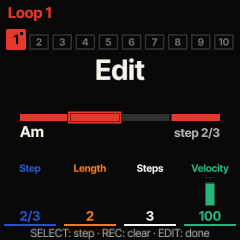
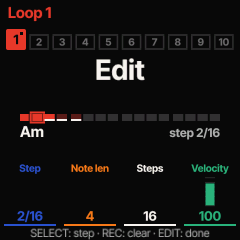
Looper step sequencer: the docs (MANUAL 10 and its editor picture, LOOPER, LOOPER-MODES, INTEGRATION's two lines, the 0.18 notes)

diff --git a/docs/LOOPER.md b/docs/LOOPER.md
@@ -127,16 +127,42 @@ REC while armed or counting in cancels.
 | **Replace** | a fresh take | arms as Overdub (`crl.rep`); while a gesture of the layer is held the older layers' events whose on-time is reached are hidden instead of played (`crl_fire`), and an older event sounding when a gesture starts is cut there (`crl_cut`: it is hidden and a copy ending there goes into the new layer; its voice ends). Hidden events keep their place (`layer` = `CRL_HID` \| the hiding layer) inside the 512-event cap; undo of that layer (`crl_restore`, by `crl.lev0`, each layer's first event) brings them back whole; the flash record stores only live events |
 | **Step** | step entry (`CRL_CAP_STEP`) | the same (the loop stops first) |
 
-**Step entry**: a step is the Quantize value (none: a quarter note, `CRL_STEP_NONE`; 1/16 until 0.17; `crl.step_g`
-ticks a step); a cursor on step 1. A chord gesture's end
-writes its chord at the cursor, one step long (several gestures before every key is up: all at the cursor); when every
-key is up and nothing is latched (`cu.kheld`, `cu.mlatch`; LOCK keeps the chord block latched) the UI posts
-`LP_STEP KEYSUP` and the cursor advances if a chord was written there; OCT+ = a rest (the cursor advances), OCT- = back
-one step (nothing erased), in or out of the menu. Synced lengths wrap the cursor at the length; Free grows. The steps
-are kept after the loop's events until the commit: REC = they become the loop (the loop there before goes; **Free: the
-length is the steps used, exactly**: "3 chords, the loop should just be 3 steps long", the owner 2026-10-11; until
-then it rounded up to the bar; a set Length: that length, as before), stopped; LOOP = the same and it plays; nothing entered = the loop
-as it was. The chords sound as they are entered (the chord engine plays the keys as always).
+**Step entry** (a step sequencer since 2026-10-12; the owner: "I would expect this system to work more like an
+Elektron sequencer in which you can record up to 64 steps. So at 1x, 16 steps is a bar").
+
+- **The grid.** A step is a **sixteenth note** of the loop's own time (`CRL_STEP`, 24 ticks; `crl.step_g`): 16 steps a
+  bar of 4/4 at Rate x1 (12 in 3/4 and 6/8). The **Rate** scales the pattern with the loop, as it does any loop: x2
+  makes the steps thirty-seconds of the tempo, x1/2 eighths. **Quantize does not set the step**: it is the grid a take
+  played by hand is pulled to. While the record mode is Step its cell reads `1/16`, dim, and KNOB 3 says `Step: always
+  1/16` and leaves the takes' Quantize as it is.
+- **Length.** A pattern has 1 .. 64 steps (`CRL_STEPS`). **Length Free: the loop is the steps entered, exactly** ("3
+  chords, the loop should just be 3 steps long", the owner 2026-10-11), growing to 64; a chord after the 64th is refused
+  (`64 steps: full`; `crl.step_no`), and so is a rest there. **A set Length**: N bars are N x 16 steps and the cursor
+  wraps at the end; a Length longer than a pattern can be gives its first whole bars within 64 steps (8 and 16 bars: 4
+  bars; 3/4 and 6/8: 5 bars, 60 steps) and says so when step entry begins (`Step: 4 bars (64 steps)`;
+  `cr_loop_step_len`). Takes played by hand keep their 8 and 16 bars.
+- **Entering.** The cursor starts on step 1. A chord gesture's end writes its chord, one step long, on **the step the
+  gesture was pressed on**. The cursor moves on a step
+  - when every key is up and nothing is latched, if a chord was written there (`cu.kheld`, `cu.mlatch`: the UI posts
+    `LP_STEP KEYSUP`), and
+  - **when a root is pressed after one was written there and let go**, whatever is still held or latched
+    (`cr_loop_gesture`): the chord key kept down while the roots are tapped under it, or a chord latched by LOCK, gives a
+    step a root. Roots held **together** share the step (a chord over a Split Bass bass note; a second root pressed
+    before the first is let go).
+  OCT+ = a rest (the cursor moves on), OCT- = back one step (nothing erased), in or out of the menu.
+- The steps are kept after the loop's events until the commit: REC = they become the loop (the loop there before
+  goes), stopped; LOOP = the same and it plays; nothing entered = the loop as it was. The chords sound as they are
+  entered (the chord engine plays the keys as always).
+
+**The two faults of the first build (0.18 dev of 2026-10-11), as the owner met them.** (1) "With quantize off it is
+capped to 4 total steps": the step was the Quantize value, and with Quantize none a **quarter note**, so a bar was
+four steps: a 1-bar Length wrapped on the fifth chord, an empty slot opened in the editor had four steps, and the grid
+drew four cells a row. (With Length really on Free the engine did go on: six chords made six quarter-note steps.) (2)
+"With quantize 16 it shows 16 steps but only records to the first step": the cursor moved on **only when every key was
+up**; with the chord key held down between the roots, or a chord latched by LOCK, every chord was written on the same
+step (six events on step 1, a loop one step long); in the editor the cursor does not move by itself at all. Neither
+depended on Quantize beyond the step's size. `tools/emu/scripts/cr_loop_stepfaults.txt` plays both; its checks fail on
+6619937.
 
 ## The PLAY menu (`cr_ui.c cu_loopmenu`, `CR_K_LOOPMENU`)
 
@@ -162,9 +188,10 @@ The middle: **idle / armed** the length big ("4 bars", "Free"; armed Free: "the 
 Advance its message); **recording or playing** the timeline (`lm_*`: the bars with their beat ticks, more than 8: the
 half the playhead is in; recording Free the bars as they pass, the current one at the right, at most 4, the elapsed
 time under it; a lane of marks per layer, at most 4 (older layers fold into lane 0), the take's lane bright, marks of
-the gestures still held where they began; Replace: the held span); **step entry** the step grid (16 a bar at 1/16, at
-most 4 bars a page, 64 steps; the filled steps, the cursor blinking with the REC LED's phase, the cursor step's chord
-under it, "step 7 · bar 1", the foot "OCT-: back · OCT+: rest · REC: done"). The marks are read from the ISR's loop
+the gestures still held where they began; Replace: the held span); **step entry** the step grid (sixteenths, a bar a
+row, four rows: the whole pattern of 64 steps on one screen; a set Length: all its steps, Free: the bars reached so
+far; the filled steps, the cursor blinking with the REC LED's phase, the cursor step's chord under it, "step 7" (Free),
+"step 7/32" (a set Length) or "64 steps · full", the foot "OCT-: back · OCT+: rest · REC: done"). The marks are read from the ISR's loop
 with the IRQ off only when its events (`crl.gen`) or the window change (`cu_lm_marks`). The top line: "Loop 3" and at
 the right "Rec · Overwrite" (armed: the mode; also outside the menu), "Rec 2.4", "Dub 3.2", "Rep 3.2", "Rec · Step",
 "3.2" playing, "empty" for an empty slot.
@@ -222,33 +249,49 @@ ignores them, and nothing is sent out.
 "In the play menu, lets make it so you can press Edit and edit the loop; once in the loop edit mode, you select a
 step and can change: notes by playing new notes which overwrites the notes, step length (default 1, but you can make
 it longer or shorter), loop length in number of steps, and we also need a way to clear a step of notes which could
-be done by pressing REC (which when in the loop editor doesn't do the normal record)."
+be done by pressing REC (which when in the loop editor doesn't do the normal record)." And on the first build
+(2026-10-12): "adjusting a step's length is changing the steps after it, which is weird. I would expect this system to
+work more like an Elektron sequencer".
 
-**The loop as steps, with nothing stored for it.** The grid is cells of the Quantize value (`crl.ed_g` ticks; an
-empty loop with Quantize none: a quarter note). A **step** is a cell, or a run of cells: a cell in which an event
-starts, and the cells after it in which nothing starts and which one of its events covers to their end (16 at most).
-An event belongs to the step it starts in. So a step-entered loop is its steps exactly (each chord a cell long, a rest
-an empty cell), and a loop recorded by playing reads as steps on the grid without one event being moved: its
-offsets inside the cells are kept, **nothing is requantised**. The steps are read from the events each time
-(`cr_loop_ed_map`: two passes over the events, two bitmaps of 2048 cells: 520 bytes in the POOL, the editor's only
-buffer), and **the record's format is unchanged**: a step's length is in `t` and `dur`, which the record always had;
-no new field, no flag, version 1, and 0.14 .. 0.17 read an edited loop's record as any other (`tests/cr_loop_test.c
-s_edit`: pack / unpack give the same map; `old_unpack_ok`).
+**A step sequencer's view of any loop, with nothing stored for it.** The grid is the sixteenth note of Step entry
+(`CRL_STEP`, 24 ticks, whatever Quantize says), for a pattern entered by steps, a take played by hand, or a step loop
+of the first build (whose steps were the Quantize value: quarter-note steps show as a chord every fourth step, four
+steps long). **An event belongs to the step it starts in.** Nothing is moved when the editor opens: an event that
+starts off the grid keeps its exact time until that step's notes are replaced; opened, looked at and closed, the loop
+is byte for byte what it was. **A step's length is its NOTES' length** (`crl_ev_t.dur`), never its place in time:
+changing it moves no other step and does not change the loop's length. A long note sounds on over the steps after it,
+and those steps still play: the voices are the looper's eight (`CR_MAX_LOOPV`; when all are busy the one that would
+end first is taken), each chord its own voice, so a held chord and the next step's chord sound together as two chords
+played on the keys would. The steps are read from the events each time (`cr_loop_ed_map`: one pass, a page of 64
+steps as two 64-bit maps: 24 bytes in the POOL, the editor's only buffer; 520 bytes before), and **the record's format
+is unchanged**: `t` and `dur` are what the record always had; no new field, no flag, version 1, and 0.14 .. 0.17 read
+an edited loop's record as any other (`tests/cr_loop_test.c s_edit`; `old_unpack_ok`).
 
 | gesture | does |
 | --- | --- |
-| EDIT tap in the PLAY menu | opens it (`cr_loop_ed_open`). Refused: a slot switch on its way (`a slot is on its way`); a capture open (`end the take first`); **Quantize none on a loop with events** (`set Quantize to edit`: a free-timed loop has no grid); more than 2048 cells (`too long: coarser grid`). An empty slot: an empty loop of the set Length (Free: a bar), which is the slot empty again if nothing is entered |
-| SELECT, KNOB 1 | the step cursor, wrapping (`cu_ledit_move`); the grid shows the cells (a bar a row; filled: an event starts there), the cursor on the step's first cell, its chord (the step cursor's name of Step entry: the last event written there) and `step 2/3` under it; the cells Step / Length / Steps / Velocity |
-| the keys | they play, as on the view (auditioned by the chord engine). A gesture's end writes its chord INTO the selected step, replacing its notes: the first key of a new push (no gesture open) clears, the keys of one push add up (`crl_ed_write`, `ed_w`). **By side** (3y9's rule): a bass-side note (Split Bass) replaces the step's bass-side notes, anything else the chord side. The new event starts at the step's first tick and is the step long |
-| | **The cursor stays on the step** (it does not advance as Step entry does): with LOCK on a chord key stays latched, so "every key up" never comes and the cursor would move for some players and not for others; and an editor's step is tried, heard and tried again. SELECT moves on |
-| REC tap | clears the selected step (`cr_loop_ed_clear`): no recording in the editor. A cleared step several cells long becomes that many empty steps |
-| KNOB 2 | the step's length, 1 .. 16 cells (`cr_loop_ed_steplen`): every later event moves by the difference, the step's own events are made to sound to its end. **Length Free: the loop's length changes with it. A set Length (1 .. 16 bars): the loop keeps its length: a shorter step pulls the rest in and leaves empty cells at the end; a longer one is REFUSED (`no room in the loop`) if it would push an event past the end** (nothing is clipped). An empty step is one cell (its cell shows `-`). Shorter than a cell: a finer Quantize first |
-| KNOB 3 | the loop's length in steps (`cr_loop_ed_len`): shorter hides the last step (its events stay in RAM beyond the end, unheard), longer brings it back, and past what there was adds an empty cell. **The hidden steps are deleted when the editor closes**; a save while it is open writes what sounds (`cr_loop_pack` skips events beyond the end). A loop played to a length off the grid: the first step up makes its last cell whole |
+| EDIT tap in the PLAY menu | opens it (`cr_loop_ed_open`), **at any Quantize setting** (the first build refused a loop with Quantize none: `set Quantize to edit`). Refused: a slot switch on its way (`a slot is on its way`); a capture open (`end the take first`). An empty slot: an empty pattern of the set Length (Free: a bar, 16 steps; more than 64 steps: its first whole bars within 64), which is the slot empty again if nothing is entered |
+| SELECT, KNOB 1 | the step cursor, wrapping at the loop's end (`cu_ledit_move`) |
+| the keys | they play, as on the view (auditioned by the chord engine). A gesture's end writes its chord INTO the selected step, replacing its notes: the first key of a new push (no gesture open) clears, the keys of one push add up (`crl_ed_write`, `ed_w`). **By side** (3y9's rule): a bass-side note (Split Bass) replaces the step's bass-side notes, anything else the chord side. The new notes start on the step's tick and are **as long as the step's notes were** (one step on an empty step) |
+| | **The cursor stays on the step** (it does not advance as Step entry does; an Elektron's grid recording stays on the selected trig too): an editor's step is tried, heard and tried again. SELECT moves on |
+| REC tap | clears the selected step (`cr_loop_ed_clear`): no recording in the editor |
+| KNOB 2 | **Note len**: how long the selected step's notes sound, 1 .. 64 steps (`cr_loop_ed_setnlen`; shown: the longest of them, a part of a step counted whole, `cr_loop_ed_nlen`). Whole steps only: the event format could carry a shorter gate, but no control was asked for one. A note played off the grid keeps its start and ends on the grid. Nothing else moves. An empty step has none (`-`). Longer than the loop: it sounds across the loop's start |
+| KNOB 3 | **Steps**: the loop's length, 1 .. 64 steps, a step a detent (`cr_loop_ed_len`): shorter hides the last step (its events stay in RAM beyond the end, unheard), longer brings it back, and past what there was adds an empty step; `64 steps at most`. **The hidden steps are deleted when the editor closes**; a save while it is open writes what sounds (`cr_loop_pack` skips events beyond the end). A loop played to a length off the grid: the first detent up makes its last step whole. A take longer than 64 steps can be made shorter, not longer |
 | KNOB 4 | the step's velocity (the event format's `vel`; the highest of its events shown) |
-| LOOP tap | play / stop from the loop's start, as ever; the cursor does not follow the playback. A length changed under the playhead: the playhead where it is in the new cycle (`crl_ed_renorm`) |
+| LOOP tap | play / stop from the loop's start, as ever; the cursor does not follow the playback, the playhead shows it. A length changed under the playhead: the playhead where it is in the new cycle (`crl_ed_renorm`) |
 | REC held | the looper's undo, as outside (below) |
 | PRESETS, ALGORITHM, GLO | nothing |
 | OCT- / OCT+ / HOME / EDIT tapped / EDIT held again | close it, back to the PLAY menu (`cr_loop_ed_close`): nothing to confirm, an edit is applied when it is made. LOOP held again, another layer, a revert: the menu and the editor close |
+
+**The screen** (`CR_K_LOOPMENU` with `lm_mid = CR_LM_STEPS`, the step grid of Step entry: `cr_draw.c cr_lm_steps`): a
+bar a row, **four rows of 16: all 64 steps at a glance** (3/4 and 6/8: four rows of 12). A step with a note starting
+in it is red; a step a longer note still sounds in (half of it or more) is dark red (`lm_lane[1]`); an empty one grey;
+the grid ends where the loop ends (`lm_steps`). The cursor is the red outline. The steps the **selected** step's note
+sounds on into carry a white line along their bottom (`lm_lane[2]`), so turning KNOB 2 is seen to stretch the note
+over the following steps and to move nothing. While the loop plays, the step being played is white (grey when empty:
+`CR_LM_PLAY` in `lm_pos`; only its rows' strips are redrawn). Under the grid the selected step's chord, big, and `step
+5/16`; the cells Step / Note len / Steps / Velocity. **A take longer than 64 steps is paged**: the cursor walks all its
+steps and the grid shows the 64 the cursor is in (`step 70/128 · p2`); one page was chosen over a scrolling row
+because a pattern fits it whole, and a page turns only for loops no step sequencer made.
 
 **Layers and undo.** The editor works on what sounds (the live events). Its **first edit makes the loop one layer**
 (`crl_ed_flat`: the overdubs merged, the events a Replace layer had hidden removed for good), so after an edit REC
@@ -342,5 +385,5 @@ loop without one is written byte for byte as 0.17 wrote it. The version stays 1 
 ## Caps
 
 512 events per loop (all layers, a Replace layer's hidden events and its cut copies included; 4 KiB in RAM + a 4 KiB staging copy for slot switches; 3.6 KiB record, and
-3664 bytes in the POOL for the loop being left, packed; 520 bytes there for the editor's map: 2048 cells),
-32 layers, 16 open gestures, 8 loop voices, 65535 ticks. Reaching the event cap ends the take ("loop full").
+3664 bytes in the POOL for the loop being left, packed; 24 bytes there for the editor's map: a page of 64 steps),
+32 layers, 16 open gestures, 8 loop voices, 65535 ticks; a step-entered pattern 64 steps. Reaching the event cap ends the take ("loop full").

diff --git a/docs/MANUAL.md b/docs/MANUAL.md
@@ -719,8 +719,9 @@ playhead. These settings are kept by a global save (SAVE held), like the rest of
   rate is not x1, the take is stored so that it plays back, at that rate, exactly as you played it; Length then counts
   the loop's own bars (at x2, a 4-bar take lasts 2 bars of the metronome).
 - **Count-in** Off skips the count: with a number of bars the take then starts the moment you tap REC.
-- **Quantize** moves the starts of the chords to the nearest grid point when the take ends. It is also the size of a
-  step in Step entry and the grid of the loop editor.
+- **Quantize** moves the starts of the chords to the nearest grid point when a take you played ends. It has no part in
+  Step entry or the loop editor, whose steps are always sixteenths: while the record mode is Step the cell reads
+  `1/16`, greyed, and KNOB 3 answers `Step: always 1/16` (your Quantize setting is kept for the other modes).
 - **The keys.** `keys: play` (the default): the keys play as usual with the menu open. Tap OPT for `keys: loops`
   (OPT lit): the white keys D4 to F5 pick slots 1 to 10, D#4 held for a second clears the loop (`hold to clear`,
   then `loop cleared`), F#4 is undo. Tap OPT again to play.
@@ -739,50 +740,70 @@ The record mode decides what a REC tap does when nothing is being recorded.
 
 While an overdub is armed or running the top line reads `Dub 3.2` (`Rep 3.2` for Replace).
 
-**Step entry** writes chords one step at a time, with no clock running. A step is as long as the Quantize value (a
-quarter note when Quantize is none; until 0.17 that was 1/16). The PLAY menu shows the grid and the cursor.
+**Step entry** writes chords one step at a time, with no clock running, the way a step sequencer does. **A step is a
+sixteenth note: 16 steps are a bar** of 4/4 (12 in 3/4 and 6/8), and a pattern has up to **64 steps** (four bars). The
+PLAY menu shows the pattern as rows of 16 steps, the filled ones red, the cursor outlined, and the cursor's step
+number.
 
-- Play a chord and let go of every key: the chord is written at the cursor and the cursor moves on.
+- Play a chord and let go: it is written on the cursor's step, one step long, and the cursor moves on. You hear the
+  chord as you enter it.
+- **Each new root is a new step.** You can keep the chord key (MAJ, MIN, ..) held down and tap one root after another,
+  or latch the chord with LOCK and tap roots: every root you press after letting the last one go takes the next step.
+- Keys held **together** go on one step: a second root pressed while the first is still down, or a bass note under a
+  chord with Split Bass.
 - OCT+ is a rest (the cursor moves on). OCT- goes back one step; nothing is erased.
 - REC finishes and leaves the loop stopped (`steps recorded`); LOOP finishes and plays it.
-- With Length = **Free** the loop is exactly the steps you entered: three chords make a loop three steps long (it is
-  no longer rounded up to a bar). With a Length in bars the loop has that length and the cursor wraps at its end.
-- With LOCK on and a chord latched, letting go of the root does **not** move the cursor, because a chord key still
-  counts as down. Use OCT+ to move on after each chord, or enter steps with LOCK off.
+- With Length = **Free** the loop is exactly the steps you entered: three chords make a loop three steps long, up to
+  64. After the 64th the pattern is full: another chord is refused (`64 steps: full`).
+- With a Length in bars the pattern has that many bars (1 bar = 16 steps, 2 = 32, 4 = 64) and the cursor wraps at its
+  end. A pattern cannot be longer than 64 steps: with Length 8 or 16 bars, step entry uses 4 bars and says so (`Step:
+  4 bars (64 steps)`). Takes you play by hand keep the full 8 or 16 bars.
+- **Rate** scales the pattern like any loop: at x1 a step is a sixteenth, at x2 a thirty-second, at x1/2 an eighth.
+- Quantize does nothing here (see above).
 
 ### The loop editor
 
-In the PLAY menu, tap **EDIT**. The loop in memory is shown as steps, and you can change it one step at a time. (Outside
-the PLAY menu EDIT is the sound editor, as ever.)
+In the PLAY menu, tap **EDIT**. The loop in memory is shown as a pattern of steps, and you can change it one step at a
+time. (Outside the PLAY menu EDIT is the sound editor, as ever.)
 
-<img src="manual/loop-editor.png" width="240" alt="The loop editor: Edit; a row of four cells, the second outlined; Am, step 2/3; cells Step 2/3, Length 2, Steps 3, Velocity 100">
+<img src="manual/loop-editor.png" width="240" alt="The loop editor: Edit; a row of sixteen steps, three red, the second outlined, a white line under the next three; Am, step 2/16; cells Step 2/16, Note len 4, Steps 16, Velocity 100">
 
-The grid is the **Quantize** value: each cell of the row is one Quantize step, a bar to a row. A filled cell is one
-where a chord or note starts. A step is one cell, or several when its chord is held over the following cells.
+The grid is the same as in Step entry: **sixteenth-note steps, 16 to a row, four rows: all 64 steps of a pattern on one
+screen.** A red step has a chord or a note starting in it. A dark red step has nothing starting in it, but a longer
+note from an earlier step is still sounding there. Grey steps are empty. The outlined step is the selected one; its
+chord is named under the grid. While the loop plays, the step being played lights up white.
 
 | Control | In the loop editor |
 | --- | --- |
-| SELECT, or KNOB 1 | the **step**: the cursor, a step a click, round and round. The screen shows `step 2/3`, the chord in it, and its cells |
+| SELECT, or KNOB 1 | the **step**: the cursor, a step a click, round and round. The screen shows `step 2/16` and the chord in it |
 | the keys | play a chord or a note: it **replaces** what is in the selected step, and you hear it. Keys pressed together all go into the step. The cursor stays on the step; turn SELECT to move on |
 | REC tap | **clears** the selected step (REC does not record here) |
-| KNOB 2 | the step's **Length**, 1 to 16 cells. Every later step moves with it. With Length = Free the loop gets longer or shorter by as much; with a Length in bars the loop keeps its length, and a longer step is refused (`no room in the loop`) if it would push a chord past the end |
-| KNOB 3 | **Steps**: the loop's length, a step a click. Shorter hides the last step, longer brings it back; past what there was, longer adds an empty step |
+| KNOB 2 | **Note len**: how long the selected step's notes sound, 1 to 64 steps. **Nothing else moves**: the other steps stay where they are and the loop keeps its length. A white line under the following steps shows how far the note reaches |
+| KNOB 3 | **Steps**: the loop's length, 1 to 64 steps, a step a click. Shorter hides the last step, longer brings it back; past what there was, longer adds an empty step |
 | KNOB 4 | the step's **Velocity** |
-| LOOP tap | play / stop, as ever, so you hear the edits in place. The cursor does not follow the playback |
+| LOOP tap | play / stop, as ever, so you hear the edits in place. The cursor does not follow the playback; the white step does |
 | REC held | the looper's undo (see below) |
 | OCT-, OCT+, HOME, EDIT (tap or hold) | close the editor, back to the PLAY menu. Nothing to confirm: an edit is done when you make it |
 
 Things to know:
 
-- **A loop you played by hand** has its chords wherever you played them. The editor sorts them onto the Quantize grid:
-  a chord belongs to the step it starts in, and it is not moved. With Quantize = none there is no grid to show such a
-  loop on, and the editor does not open: `set Quantize to edit`. Nothing is ever requantised behind your back.
-- **A step shorter than one cell:** choose a finer Quantize first (the step that was 1 cell at 1/4 is 2 cells at 1/8).
-- **An empty step** is always one cell; its Length and Velocity cells show `-`. To make room, lengthen the step before
-  it or add steps at the end with KNOB 3.
-- **A cleared step that was several cells long** becomes that many empty steps.
-- **An empty slot** opens as an empty loop of the set Length (Free: one bar). Leave without entering anything and the
-  slot is empty again.
+- **A long note sounds over the steps after it, and those steps still play.** A chord four steps long with another
+  chord on the next step: both sound together for three steps, as if you had held one and played the other. (The loop
+  plays up to eight chords at once; a ninth takes the place of the one that would end first.) A note longer than the
+  rest of the loop sounds on across the loop's start.
+- **A chord played on a step keeps that step's note length.** Set a step to 4 steps long, then try other chords on it:
+  each is 4 long. On an empty step a chord is 1 step long.
+- **A loop you played by hand** opens too, at any Quantize setting. Its chords are shown on the sixteenth grid: a chord
+  belongs to the step it starts in. **Nothing is moved**: a chord you played a little early or late keeps its exact
+  timing until you replace that step (the new chord starts on the step). Its Note len shows the steps it reaches into
+  (a part of a step counts as one); turning KNOB 2 makes it end on the grid.
+- **A loop longer than 64 steps** (a long take) is shown 64 steps at a time; the cursor walks through all of it and the
+  screen follows (`step 70/128 · p2`). KNOB 3 can make such a loop shorter, not longer.
+- **A step loop made with an earlier 0.18 test build**, whose steps were as long as the Quantize value, plays as it
+  did. Here it shows on the sixteenth grid: quarter-note steps are a chord on every fourth step, 4 steps long.
+- **An empty step**: its Note len and Velocity cells show `-`.
+- **An empty slot** opens as an empty pattern of the set Length (Free: one bar, 16 steps; 8 or 16 bars: 64 steps).
+  Leave without entering anything and the slot is empty again.
 - **Split Bass:** a note played on the bass side replaces the step's bass notes only, a chord on the other side only
   the chords, as when recording.
 - **Steps hidden by KNOB 3** are kept only while the editor is open: when you close it they are gone. A save while it
@@ -791,7 +812,6 @@ Things to know:
   layer had taken out is gone for good), so after an edit REC held says `nothing to undo`. The way back is the last
   save: **GLO + SAVE** brings the saved loop back. Opening the editor and closing it without an edit changes nothing.
 - Edits are in memory, like everything you record: hold SAVE to keep them.
-- A loop longer than 2048 cells at the current Quantize does not open (`too long: coarser grid`).
 
 ### Slots and saving
 
@@ -1398,7 +1418,8 @@ More: [BOOT-SAFETY.md](BOOT-SAFETY.md), [INSTALL-COMPAT.md](INSTALL-COMPAT.md), 
 | The bass layer's keys make no sound | in that layer the white keys pick the behaviour | close the layer to play |
 | The loop plays but is silent | its Level is 0 | PLAY menu, KNOB 3 |
 | REC replaced my loop | the record mode is Overwrite | PLAY menu, ALGORITHM: Overdub. Before the first chord, REC again cancels |
-| In step entry the cursor does not move on | LOCK is on with a chord latched | OCT+ after each chord, or LOCK off |
+| In step entry two notes land on the same step | they were held together | let go of the first before pressing the next; OCT- goes back |
+| Step entry says `64 steps: full` | a pattern has 64 steps at most | REC to finish; OCT- to go back and change a step |
 | HOME does not change the view | the view is locked | HOME held, KNOB 1: Lock Off |
 | The tempo moves by itself | MIDI Clock is In | Options > MIDI Clock |
 | My reverb or delay setting is back to what it was | it was not saved: since 0.18 the FM-1 comes back as last **saved** | set it again and hold SAVE (`saved`) |

diff --git a/docs/releases/0.18.md b/docs/releases/0.18.md
@@ -94,15 +94,21 @@ keys' job.
 locked to the tempo (no drift), the pitch does not change, and the metronome, the count-in and MIDI clock out stay
 the tempo's. A change while the loop plays takes effect when the loop next starts, so nothing jumps.
 
-**Step entry, Length Free: the loop is the steps you entered.** Three chords make a loop three steps long; it is no
-longer rounded up to a bar. A step is as long as the Quantize value, a quarter note when Quantize is none (it was
-1/16). With a Length in bars, Step works as before.
+**Step entry is a step sequencer.** A step is a sixteenth note, 16 steps are a bar, and a pattern has up to 64 steps
+(four bars); Rate scales it (x2: thirty-seconds, x1/2: eighths). Each chord you enter takes the next step, and a new
+root is a new step even while you keep the chord key held or latched with LOCK. With Length Free the loop is exactly
+the steps you entered (three chords: three steps; it is no longer rounded up to a bar), up to 64 (`64 steps: full`);
+with a Length in bars the pattern is that many bars, four at most. Quantize has no part in it: in Step mode its cell
+reads `1/16`.
 
-**The loop editor.** In the PLAY menu, EDIT shows the loop as steps on the Quantize grid. SELECT picks a step;
-playing a chord replaces what is in it; REC clears it; KNOB 2 sets its length (the later steps move), KNOB 3 the
-number of steps in the loop, KNOB 4 its velocity; LOOP plays and stops as ever. OCT-, OCT+, HOME or EDIT closes it.
-A loop played by hand is sorted onto the grid without moving a note; with Quantize = none it does not open (`set
-Quantize to edit`). After an edit the looper's undo has nothing to take back: the way back is GLO + SAVE.
+**The loop editor.** In the PLAY menu, EDIT shows the loop as a pattern of sixteenth-note steps, four rows of 16: the
+filled steps, the steps a longer note still sounds in, the selected step and, while the loop plays, the step being
+played. SELECT picks a step; playing a chord replaces what is in it; REC clears it; KNOB 2 sets how long its notes
+sound, 1 to 64 steps, and moves nothing else (a long note sounds over the following steps, which still play); KNOB 3
+is the number of steps in the loop, 1 to 64; KNOB 4 the velocity; LOOP plays and stops as ever. OCT-, OCT+, HOME or
+EDIT closes it. A loop played by hand opens at any Quantize setting, shown on the same grid without a note being
+moved; one longer than 64 steps is shown 64 at a time. After an edit the looper's undo has nothing to take back: the
+way back is GLO + SAVE.
 
 **A loop keeps your bass line on the bass.** With Single = `Split Bass` the keys below the split play the bass
 part's sound. Until now the looper recorded such a note as an ordinary note, so the loop played your bass line back

diff --git a/docs/LOOPER-MODES.md b/docs/LOOPER-MODES.md
@@ -8,10 +8,16 @@ kept when nothing was entered); OCT+ / OCT- step in or out of the menu; PRESETS 
 (250 ms) while a loop plays.
 **Changed in 0.18 (2026-10-11; docs/LOOPER.md has the menu as built):** SELECT turns the menu's PAGE (page 1: KNOB 1
 Length, KNOB 2 Rate, KNOB 3 Quantize, KNOB 4 Count-in; page 2: KNOB 1 Level); the Keys cell is gone, GLO alone
-toggles the keys (the bottom line says play / loops); EDIT opens the loop editor; Step entry's step is the Quantize
-value (a quarter note when none, not 1/16) and with Length Free the loop is the steps entered, exactly (no rounding to
-a bar); the SAVE layer is gone (SAVE held is the global save: loops are saved by it and by leaving a slot). The text
-below is the design of 2026-10-09, kept as it was approved.
+toggles the keys (the bottom line says play / loops); EDIT opens the loop editor; with Length Free a step-entered loop
+is the steps entered, exactly (no rounding to a bar); the SAVE layer is gone (SAVE held is the global save: loops are
+saved by it and by leaving a slot).
+**Step entry and the editor are a step sequencer (2026-10-12; docs/LOOPER.md "Step entry", "The loop editor"):** a
+step is a sixteenth note at Rate x1 whatever Quantize says (the first 0.18 build made it the Quantize value, a quarter
+note when none), a pattern has 1 .. 64 steps (Free: the steps entered; a set Length: its bars, 4 at most), a root
+pressed after one was let go is the next step even while a chord key is held or latched, and in the editor a step's
+length is its note's (nothing else moves). The text below is the design of 2026-10-09, kept as it was approved: where
+it says the grid is the Quantize setting, that the length rounds up to a bar, or that a latched chord stops the
+cursor, the paragraphs above and docs/LOOPER.md are what is built.
 
 The slot bug (a slot's pattern lost on a switch) is fixed separately: a slot *is* its pattern, leaving a slot saves it
 (docs/LOOPER.md "Slots and the record").

diff --git a/docs/INTEGRATION.md b/docs/INTEGRATION.md
@@ -485,7 +485,8 @@ Priority, top down, first match wins:
   `CR_Z_FULL`: spec 0 / 0 whatever `mods_down` holds (LOCK's latch stays posted down and is back when the mode is
   left), no voicing rotation, no Key chord; Key Mode on blocks out-of-scale presses as Notes does. KNOB 1 on the view
   steps `cu.octave` (popup "octave"). The KEY layer on pick still owns the keys (`cu_key_pick`), B3 inert there.
-  Step entry's "every key up" ignores the latch in this mode.
+  Step entry's "every key up" ignores the latch in this mode (and a root pressed after one was let go is the next
+  step whatever is latched: docs/LOOPER.md "Step entry").
 - **Single** has three values (`cr_single_t`): Full, Split Oct (`CR_SINGLE_SPLIT`, as before), **Split Bass**
   (`CR_SINGLE_SPLIT_BASS`): a key below the split is a `CR_Z_BASS` voice: a single note on the BASS stream alone at
   the played pitch + transpose + 12 x the bass register, whatever Bass on / off says; every other voice plays the
@@ -787,6 +788,8 @@ its deep pages under the cz band and the tone store; `cr_cz.txt`, `cz_persist_*.
   slot map too); the PLAY menu has two pages on SELECT (Length Rate Quantize Count-in / Level), its keys on GLO alone;
   the Rate (`cr_loop_set_rate`: the loop's own clock, `crl.t`, runs at 1/4 .. 4 of the tempo's, `crl.rt`); Step entry
   with Length Free commits the steps exactly; the loop editor (`cr_loop_ed_*`, `cu_ledit_*`: EDIT in the PLAY menu).
+  Both are a step sequencer (2026-10-12): `CRL_STEP` (a sixteenth) and `CRL_STEPS` (64), a step's length its notes'
+  `dur` (docs/LOOPER.md).
 - **Sounds, the naming screen**: SAVE held 1 s on a used slot asks "delete?" (the slot number huge in red, OCT+
   deletes it through `up_put(k, 0)`, OCT- keeps it); saving over the slot the part's sound came from, unedited,
   renames it (`up_rename`, the stored sound kept); else OCT+ overwrites. Its keys: the typing roots lit (D4..G5,
